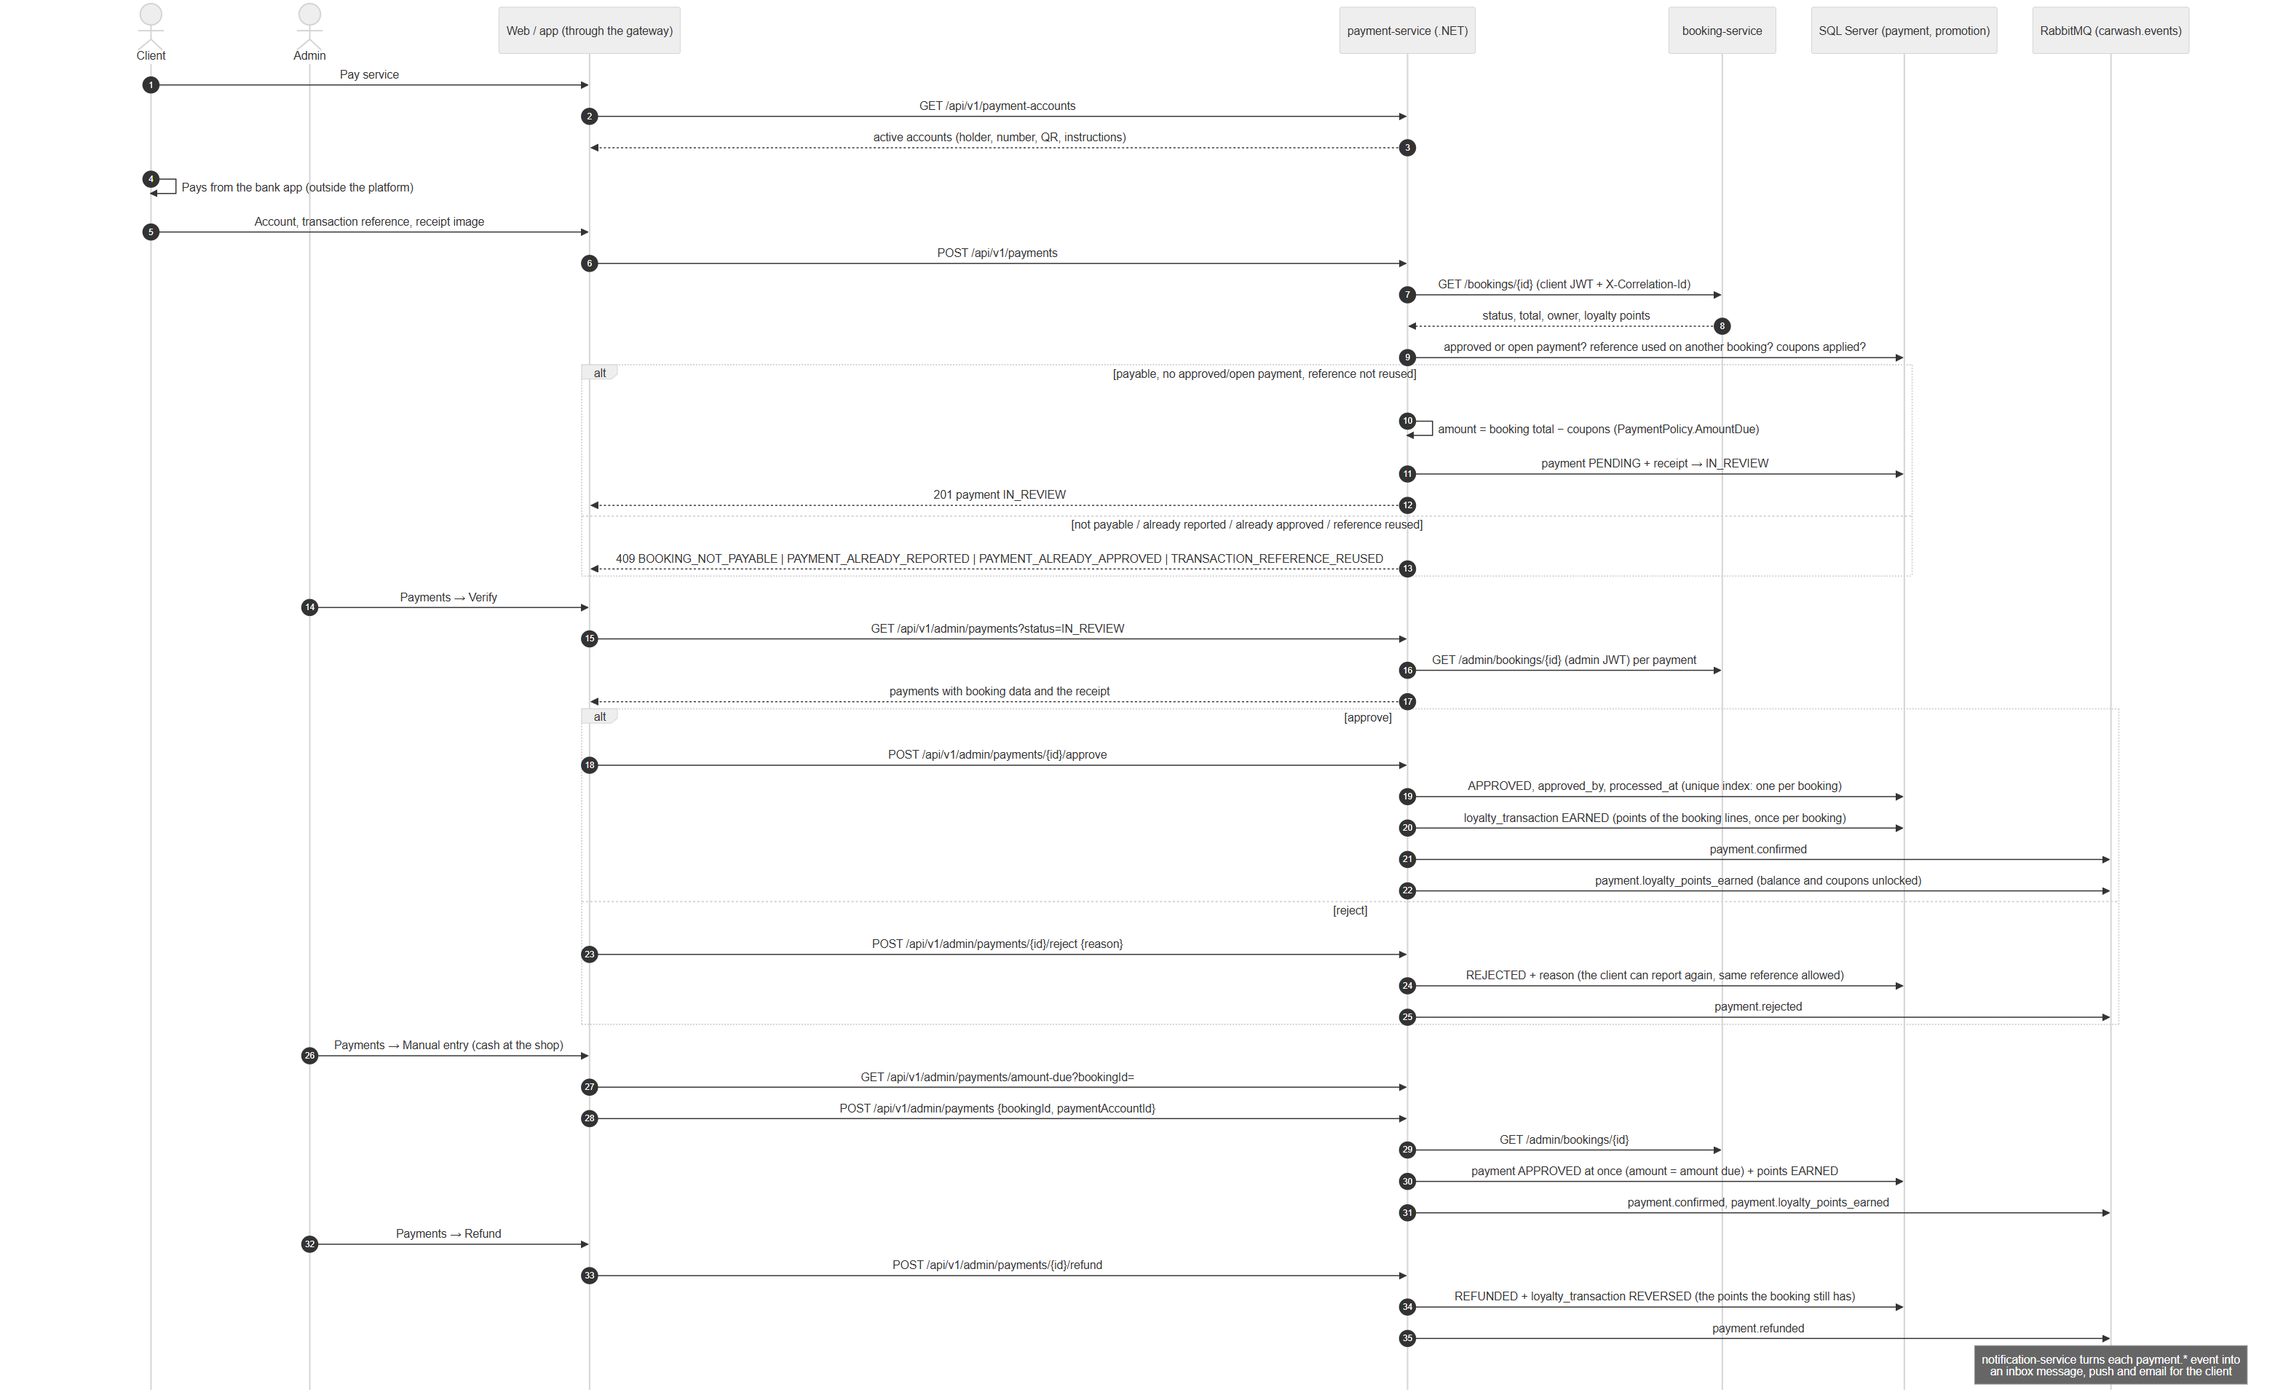
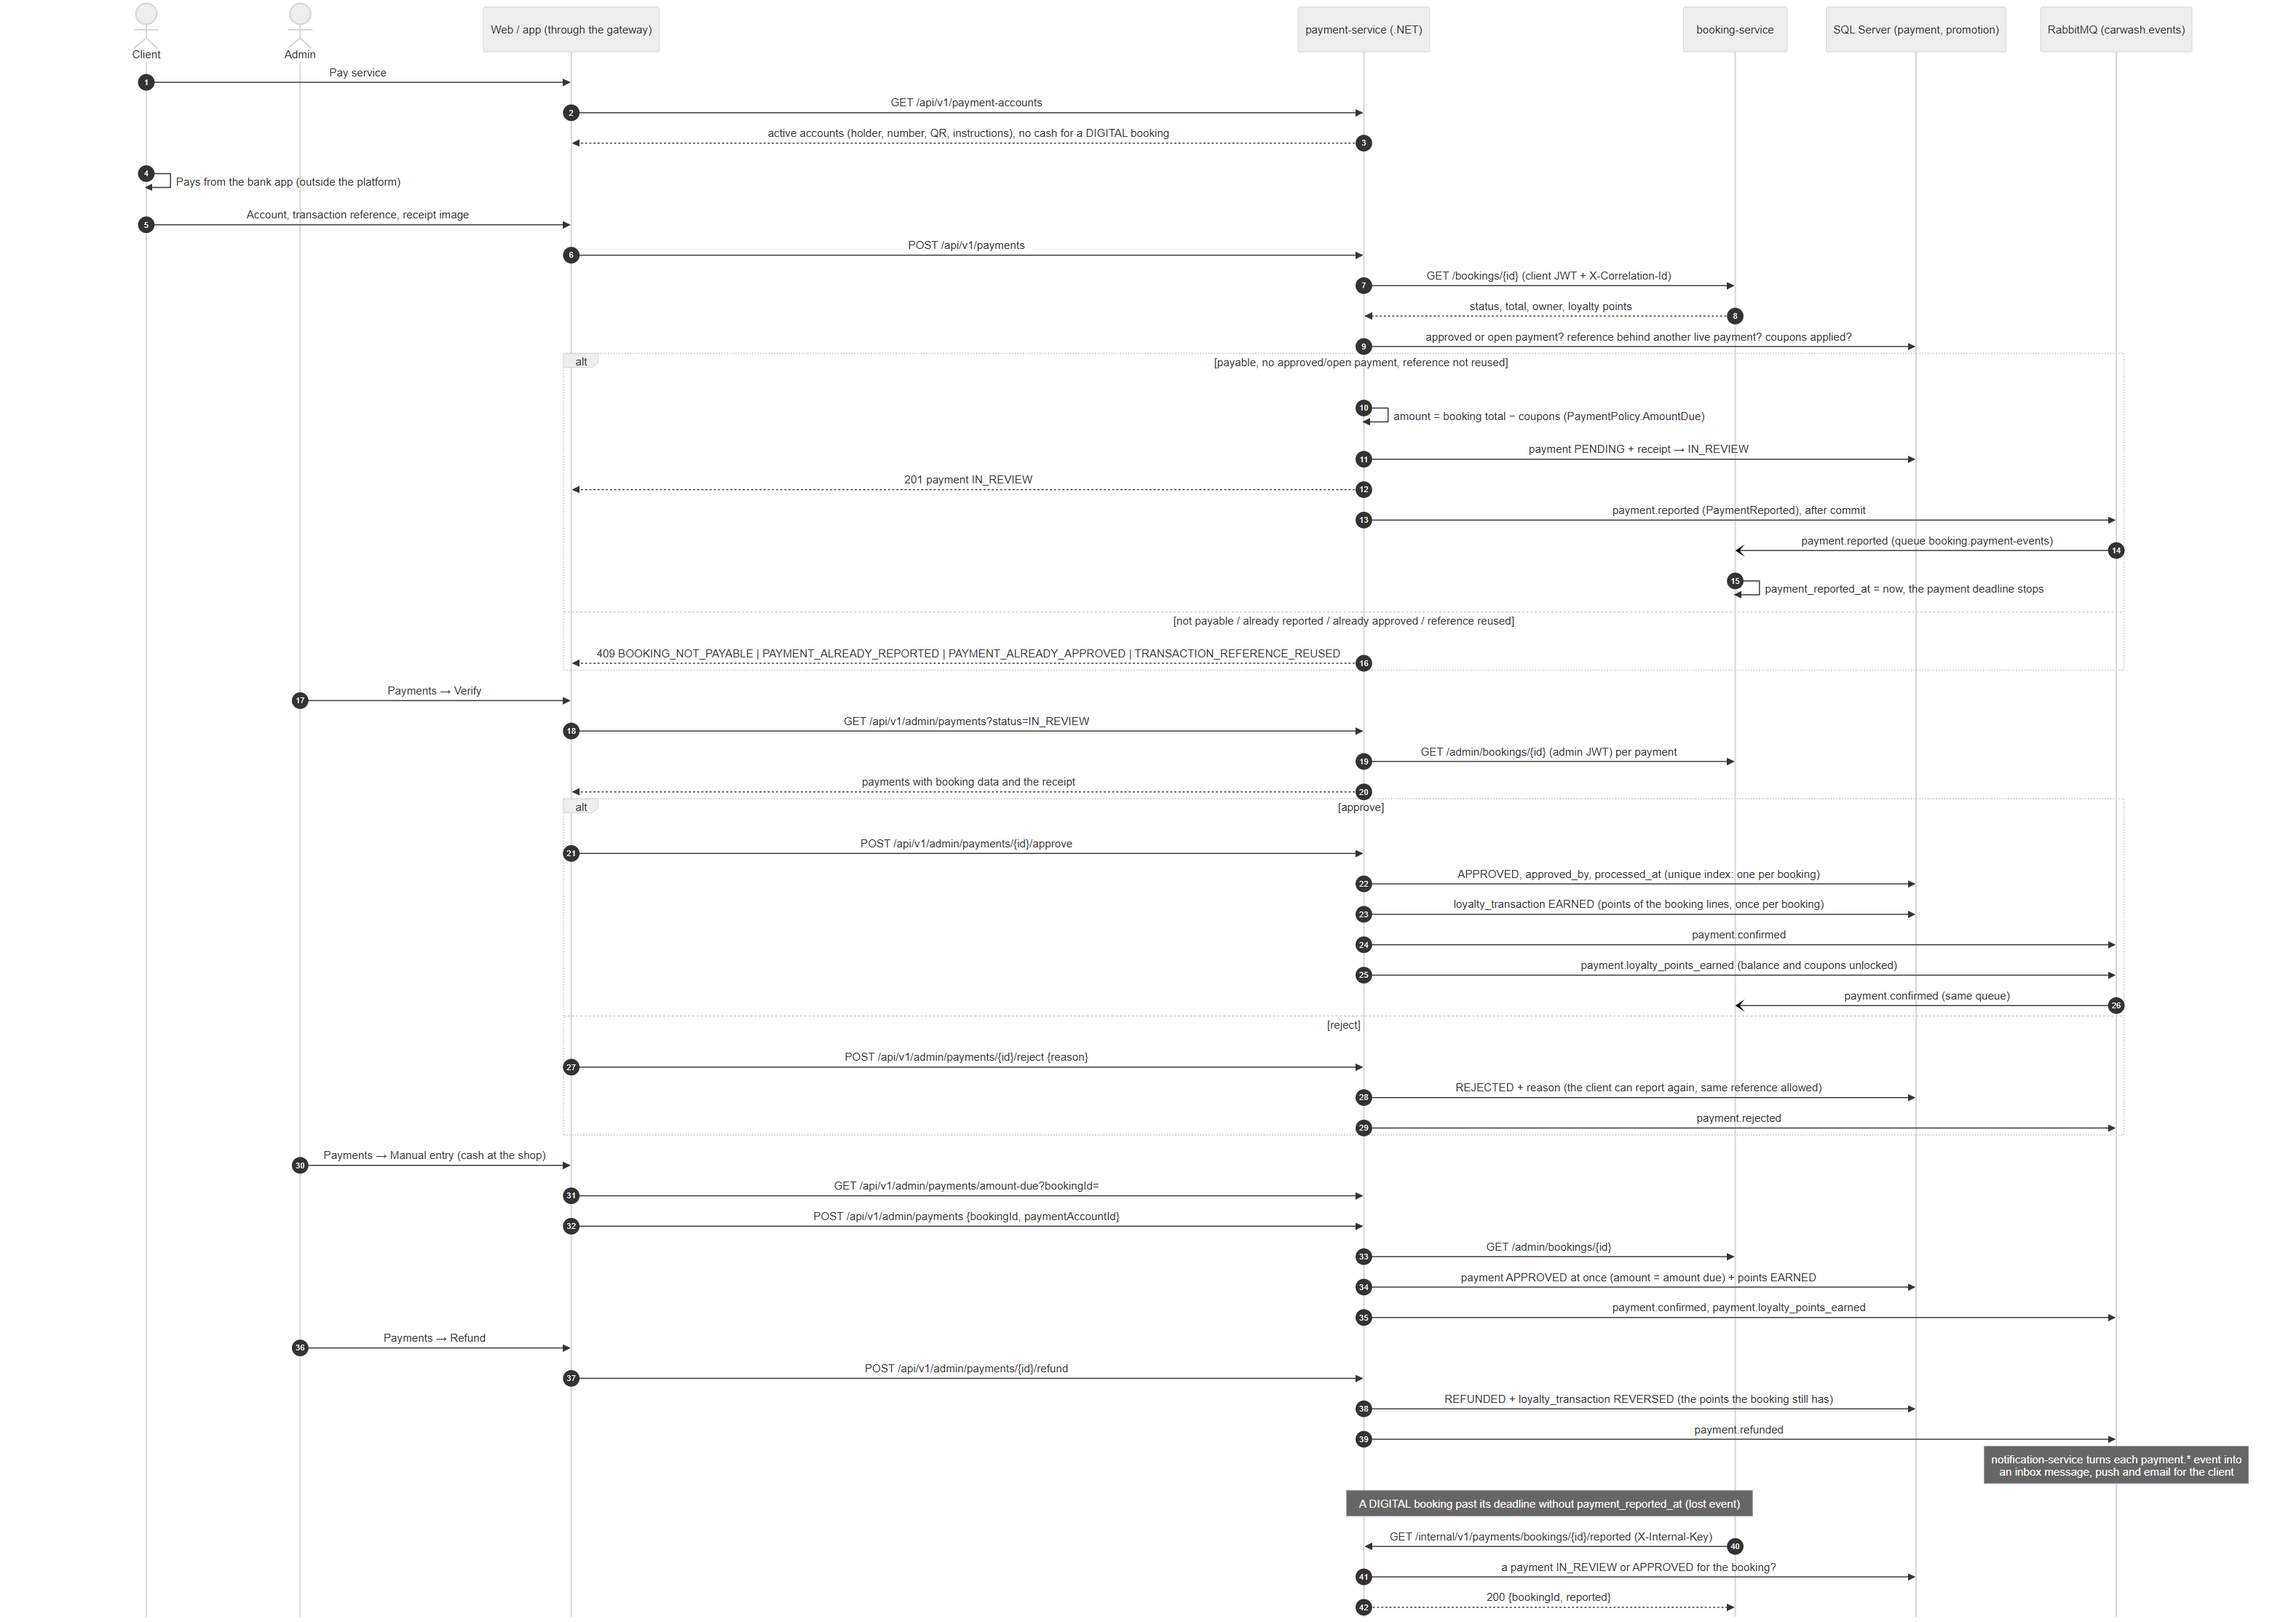
docs(uml): add payment.reported and the internal reported check to the payment sequence and class diagram

diff --git a/08-uml/diagrams/source/class-payment.md b/08-uml/diagrams/source/class-payment.md
@@ -1,44 +1,22 @@
 # Class diagram — payment-service domain (payments, promotions and loyalty)
 
-Source: `lavarapido-payment-service/src/PaymentService.Domain` (.NET 8) as of 2026-10-19. Length
+Source: `lavarapido-payment-service/src/PaymentService.Domain` (.NET 8) as of 2026-10-19; `PaymentReported`
+added on 2026-10-27 (`main`, `42dac3d`). Length
 constants, `Guard` and error codes are left out.
 
 ```mermaid
 classDiagram
-    class LoyaltyBalance {
-        <<value object>>
-        +Points int
-        +Sequence int
-    }
-    class PaymentApproved {
-        <<domain event>>
-        long BookingId
-        decimal Amount
-    }
     direction LR
-    class PercentageDiscountStrategy
-    class FixedAmountDiscountStrategy
-    class PaymentPolicy {
-        <<static domain service>>
-        +IsBookingPayable(string bookingStatus)$ bool
-        +CanReportPayment(string bookingStatus, IEnumerable~PaymentStatus~)$ bool
-        +AmountDue(decimal bookingTotal, decimal appliedDiscounts)$ decimal
-    }
-    class RedemptionRequest {
-        <<value object>>
-        long BookingId
-        string BookingCode
-        long CustomerUserId
-        int CustomerPoints
-        decimal Subtotal
-        bool AlreadyRedeemedOnBooking
-        int TotalRedemptions
-        int CustomerRedemptions
-    }
-    class IDiscountStrategy {
-        <<interface>>
-        +Calculate(decimal subtotal, decimal value) decimal
-        +Validate(decimal value)
+    class PaymentReceipt {
+        <<entity>>
+        +FileUrl string
+        +TransactionReference string?
+        +ReportedAmount decimal?
+        +UploadedBy long
+        +UploadedAtUtc DateTime
+        +ReviewedBy long?
+        +ReviewedAtUtc DateTime?
+        +ReviewComment string?
     }
     class Promotion {
         <<aggregate root>>
@@ -64,47 +42,6 @@ classDiagram
         +CalculateDiscount(decimal subtotal) decimal
         +Redeem(RedemptionRequest) PromotionRedemption
     }
-    class AggregateRoot~TId~ {
-        <<abstract>>
-        +DomainEvents IReadOnlyCollection~IDomainEvent~
-        #AddDomainEvent(IDomainEvent)
-        +ClearDomainEvents()
-    }
-    class PromotionRedemption {
-        <<entity>>
-        +BookingId long
-        +PromotionId int
-        +AppliedAmount decimal
-        +RedeemedBy long?
-        +RedeemedAtUtc DateTime
-    }
-    class PromotionRedeemed {
-        <<domain event>>
-        int PromotionId
-        long BookingId
-        long CustomerUserId
-        decimal DiscountAmount
-    }
-    class DiscountStrategyFactory {
-        +For(DiscountType)$ IDiscountStrategy
-    }
-    class LoyaltyTransaction {
-        <<entity>>
-        +CustomerId long
-        +MovementType LoyaltyMovementType
-        +Sequence int
-        +BookingId long?
-        +Points int
-        +BalanceAfter int
-        +ExpiresOn DateOnly?
-        +Earn(long customerId, long bookingId, int points, LoyaltyBalance, long?, DateTime)$ LoyaltyTransaction
-        +ReverseEarned(long customerId, long bookingId, int earned, LoyaltyBalance, ...)$ LoyaltyTransaction?
-    }
-    class PaymentRefunded {
-        <<domain event>>
-        long BookingId
-        decimal Amount
-    }
     class PaymentMethodType {
         <<entity>>
         +Code string
@@ -114,48 +51,15 @@ classDiagram
         +DisplayOrder short
         +IsActive bool
     }
-    class PaymentStatus {
-        <<enumeration>>
-        Pending
-        InReview
-        Approved
-        Rejected
-        Refunded
-    }
     class Entity~TId~ {
         <<abstract>>
         +Id TId
     }
-    class PaymentReceipt {
-        <<entity>>
-        +FileUrl string
-        +TransactionReference string?
-        +ReportedAmount decimal?
-        +UploadedBy long
-        +UploadedAtUtc DateTime
-        +ReviewedBy long?
-        +ReviewedAtUtc DateTime?
-        +ReviewComment string?
-    }
-    class DiscountType {
-        <<enumeration>>
-        Percentage
-        FixedAmount
-        Package
-    }
-    class LoyaltyMovementType {
-        <<enumeration>>
-        Earned
-        Redeemed
-        Expired
-        Adjusted
-        Reversed
-    }
-    class PaymentRejected {
-        <<domain event>>
-        long BookingId
-        decimal Amount
-        string Reason
+    class PercentageDiscountStrategy
+    class IDiscountStrategy {
+        <<interface>>
+        +Calculate(decimal subtotal, decimal value) decimal
+        +Validate(decimal value)
     }
     class Payment {
         <<aggregate root>>
@@ -175,6 +79,67 @@ classDiagram
         +Reject(long rejectedBy, string reason, DateTime)
         +Refund(DateTime)
     }
+    class PaymentPolicy {
+        <<static domain service>>
+        +IsBookingPayable(string bookingStatus)$ bool
+        +CanReportPayment(string bookingStatus, IEnumerable~PaymentStatus~)$ bool
+        +AmountDue(decimal bookingTotal, decimal appliedDiscounts)$ decimal
+    }
+    class DiscountStrategyFactory {
+        +For(DiscountType)$ IDiscountStrategy
+    }
+    class AggregateRoot~TId~ {
+        <<abstract>>
+        +DomainEvents IReadOnlyCollection~IDomainEvent~
+        #AddDomainEvent(IDomainEvent)
+        +ClearDomainEvents()
+    }
+    class PaymentRefunded {
+        <<domain event>>
+        long BookingId
+        decimal Amount
+    }
+    class DiscountType {
+        <<enumeration>>
+        Percentage
+        FixedAmount
+        Package
+    }
+    class LoyaltyTransaction {
+        <<entity>>
+        +CustomerId long
+        +MovementType LoyaltyMovementType
+        +Sequence int
+        +BookingId long?
+        +Points int
+        +BalanceAfter int
+        +ExpiresOn DateOnly?
+        +Earn(long customerId, long bookingId, int points, LoyaltyBalance, long?, DateTime)$ LoyaltyTransaction
+        +ReverseEarned(long customerId, long bookingId, int earned, LoyaltyBalance, ...)$ LoyaltyTransaction?
+    }
+    class LoyaltyBalance {
+        <<value object>>
+        +Points int
+        +Sequence int
+    }
+    class PaymentStatus {
+        <<enumeration>>
+        Pending
+        InReview
+        Approved
+        Rejected
+        Refunded
+    }
+    class PaymentApproved {
+        <<domain event>>
+        long BookingId
+        decimal Amount
+    }
+    class PaymentReported {
+        <<domain event>>
+        long BookingId
+        decimal Amount
+    }
     class PaymentAccount {
         <<entity>>
         +PaymentMethodTypeId short
@@ -186,27 +151,69 @@ classDiagram
         +Create(PaymentMethodType, string holder, string? number, ...)$ PaymentAccount
         +Update(PaymentMethodType, string holder, string? number, string? qr, ...)
     }
-    PercentageDiscountStrategy ..|> IDiscountStrategy
-    AggregateRoot~TId~ --|> Entity~TId~
-    LoyaltyTransaction --|> Entity~TId~
-    Payment ..> PaymentAccount : PaymentAccountId
-    Payment ..> PaymentApproved : raises
+    class PromotionRedemption {
+        <<entity>>
+        +BookingId long
+        +PromotionId int
+        +AppliedAmount decimal
+        +RedeemedBy long?
+        +RedeemedAtUtc DateTime
+    }
+    class LoyaltyMovementType {
+        <<enumeration>>
+        Earned
+        Redeemed
+        Expired
+        Adjusted
+        Reversed
+    }
+    class FixedAmountDiscountStrategy
+    class PromotionRedeemed {
+        <<domain event>>
+        int PromotionId
+        long BookingId
+        long CustomerUserId
+        decimal DiscountAmount
+    }
+    class RedemptionRequest {
+        <<value object>>
+        long BookingId
+        string BookingCode
+        long CustomerUserId
+        int CustomerPoints
+        decimal Subtotal
+        bool AlreadyRedeemedOnBooking
+        int TotalRedemptions
+        int CustomerRedemptions
+    }
+    class PaymentRejected {
+        <<domain event>>
+        long BookingId
+        decimal Amount
+        string Reason
+    }
+    Promotion ..> PromotionRedemption : creates
     PaymentAccount --> PaymentMethodType
     Payment --|> AggregateRoot~TId~
-    LoyaltyTransaction --> LoyaltyMovementType
-    Promotion ..> PromotionRedemption : creates
-    Promotion --> DiscountType
     FixedAmountDiscountStrategy ..|> IDiscountStrategy
-    Payment "1" *-- "0..*" PaymentReceipt : receipts
-    Promotion ..> PromotionRedeemed : raises
-    Payment --> PaymentStatus
-    DiscountStrategyFactory ..> IDiscountStrategy
-    PaymentAccount --|> Entity~TId~
-    Promotion --|> AggregateRoot~TId~
-    Promotion ..> DiscountStrategyFactory
+    LoyaltyTransaction --> LoyaltyMovementType
     Promotion ..> RedemptionRequest
-    Payment ..> PaymentRejected : raises
+    Promotion --> DiscountType
     Payment ..> PaymentRefunded : raises
+    Promotion ..> DiscountStrategyFactory
+    Payment ..> PaymentAccount : PaymentAccountId
+    Payment ..> PaymentApproved : raises
+    Payment --> PaymentStatus
+    Promotion --|> AggregateRoot~TId~
+    PaymentAccount --|> Entity~TId~
+    DiscountStrategyFactory ..> IDiscountStrategy
+    Payment ..> PaymentReported : raises
+    LoyaltyTransaction --|> Entity~TId~
+    Payment "1" *-- "0..*" PaymentReceipt : receipts
+    Payment ..> PaymentRejected : raises
+    PercentageDiscountStrategy ..|> IDiscountStrategy
+    Promotion ..> PromotionRedeemed : raises
+    AggregateRoot~TId~ --|> Entity~TId~
     LoyaltyTransaction ..> LoyaltyBalance
 ```
 
@@ -224,5 +231,7 @@ Rules kept by these classes:
 - Loyalty: when a payment is approved, `LoyaltyRewardService` (application layer) credits the points of
   the booking lines with `LoyaltyTransaction.Earn`; a refund reverses them with `ReverseEarned`. Both
   are idempotent per booking. `CustomerId` holds the customer's user id.
-- Events published to `carwash.events`: `payment.confirmed`, `payment.rejected`, `payment.refunded`,
+- `ReportWithReceipt` (the client's path) raises `PaymentReported`; the in-person payment does not,
+  because it is approved at once. booking-service consumes it to stop the payment deadline (ADR-021).
+- Events published to `carwash.events`: `payment.reported`, `payment.confirmed`, `payment.rejected`, `payment.refunded`,
   `payment.promotion_redeemed` and `payment.loyalty_points_earned`.

diff --git a/08-uml/diagrams/source/seq-payment.md b/08-uml/diagrams/source/seq-payment.md
@@ -3,7 +3,9 @@
 Source: `payment-service` `PaymentCommandService.ReportAsync / ApproveAsync / RejectAsync /
 RegisterInPersonAsync / RefundAsync` (input port `IPaymentCommandUseCases`), `BookingPaymentGuard`,
 `AmountDueCalculator`, `LoyaltyRewardService`, `Payment` aggregate, `BookingServiceDirectory`
-(ADR-008, ADR-013). Checked against the code on 2026-10-19.
+(ADR-008, ADR-013); booking-service `PaymentEventsListener` and `PaymentDeadlineJob`, payment-service
+`InternalPaymentsController` (ADR-021). Checked against the code on 2026-10-19, `payment.reported` and the
+internal check added on 2026-10-27.
 
 ```mermaid
 sequenceDiagram
@@ -18,17 +20,20 @@ sequenceDiagram
 
     C->>W: Pay service
     W->>P: GET /api/v1/payment-accounts
-    P-->>W: active accounts (holder, number, QR, instructions)
+    P-->>W: active accounts (holder, number, QR, instructions), no cash for a DIGITAL booking
     C->>C: Pays from the bank app (outside the platform)
     C->>W: Account, transaction reference, receipt image
     W->>P: POST /api/v1/payments
     P->>B: GET /bookings/{id} (client JWT + X-Correlation-Id)
     B-->>P: status, total, owner, loyalty points
-    P->>DB: approved or open payment? reference used on another booking? coupons applied?
+    P->>DB: approved or open payment? reference behind another live payment? coupons applied?
     alt payable, no approved/open payment, reference not reused
         P->>P: amount = booking total − coupons (PaymentPolicy.AmountDue)
         P->>DB: payment PENDING + receipt → IN_REVIEW
         P-->>W: 201 payment IN_REVIEW
+        P->>MQ: payment.reported (PaymentReported), after commit
+        MQ-)B: payment.reported (queue booking.payment-events)
+        B->>B: payment_reported_at = now, the payment deadline stops
     else not payable / already reported / already approved / reference reused
         P-->>W: 409 BOOKING_NOT_PAYABLE | PAYMENT_ALREADY_REPORTED | PAYMENT_ALREADY_APPROVED | TRANSACTION_REFERENCE_REUSED
     end
@@ -43,6 +48,7 @@ sequenceDiagram
         P->>DB: loyalty_transaction EARNED (points of the booking lines, once per booking)
         P->>MQ: payment.confirmed
         P->>MQ: payment.loyalty_points_earned (balance and coupons unlocked)
+        MQ-)B: payment.confirmed (same queue)
     else reject
         W->>P: POST /api/v1/admin/payments/{id}/reject {reason}
         P->>DB: REJECTED + reason (the client can report again, same reference allowed)
@@ -61,7 +67,14 @@ sequenceDiagram
     P->>DB: REFUNDED + loyalty_transaction REVERSED (the points the booking still has)
     P->>MQ: payment.refunded
     Note over MQ: notification-service turns each payment.* event into<br/>an inbox message, push and email for the client
+
+    Note over P,B: A DIGITAL booking past its deadline without payment_reported_at (lost event)
+    B->>P: GET /internal/v1/payments/bookings/{id}/reported (X-Internal-Key)
+    P->>DB: a payment IN_REVIEW or APPROVED for the booking?
+    P-->>B: 200 {bookingId, reported}
 ```
 
-The coupon applied before paying is in [seq-loyalty-coupon](./seq-loyalty-coupon.md). Paths and
-bodies: `07-api/contracts/openapi/payment-service.yaml`.
+The coupon applied before paying is in [seq-loyalty-coupon](./seq-loyalty-coupon.md). What booking does
+with the answer of the internal check (keep the booking or cancel it with `PAYMENT_TIMEOUT`) is in
+[seq-booking](./seq-booking.md). booking also takes `payment.confirmed` from the same queue and sets
+`payment_reported_at` if it was still empty. Paths and bodies: `07-api/contracts/openapi/payment-service.yaml`.
